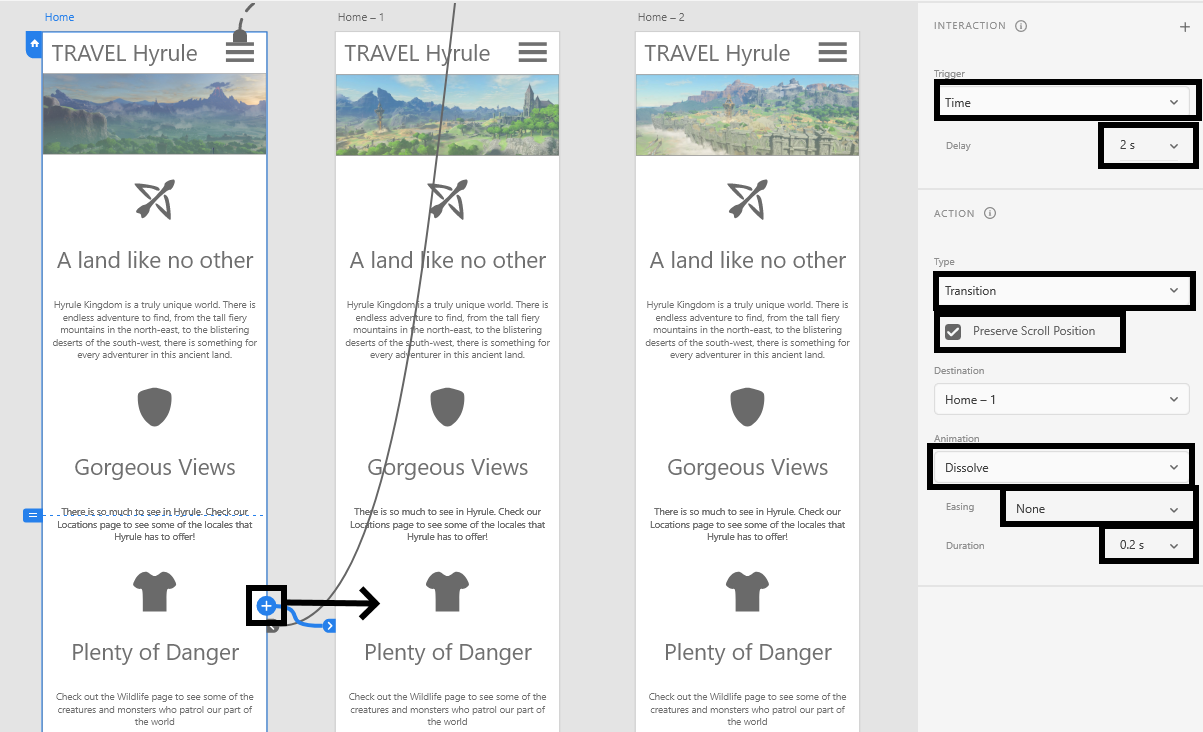
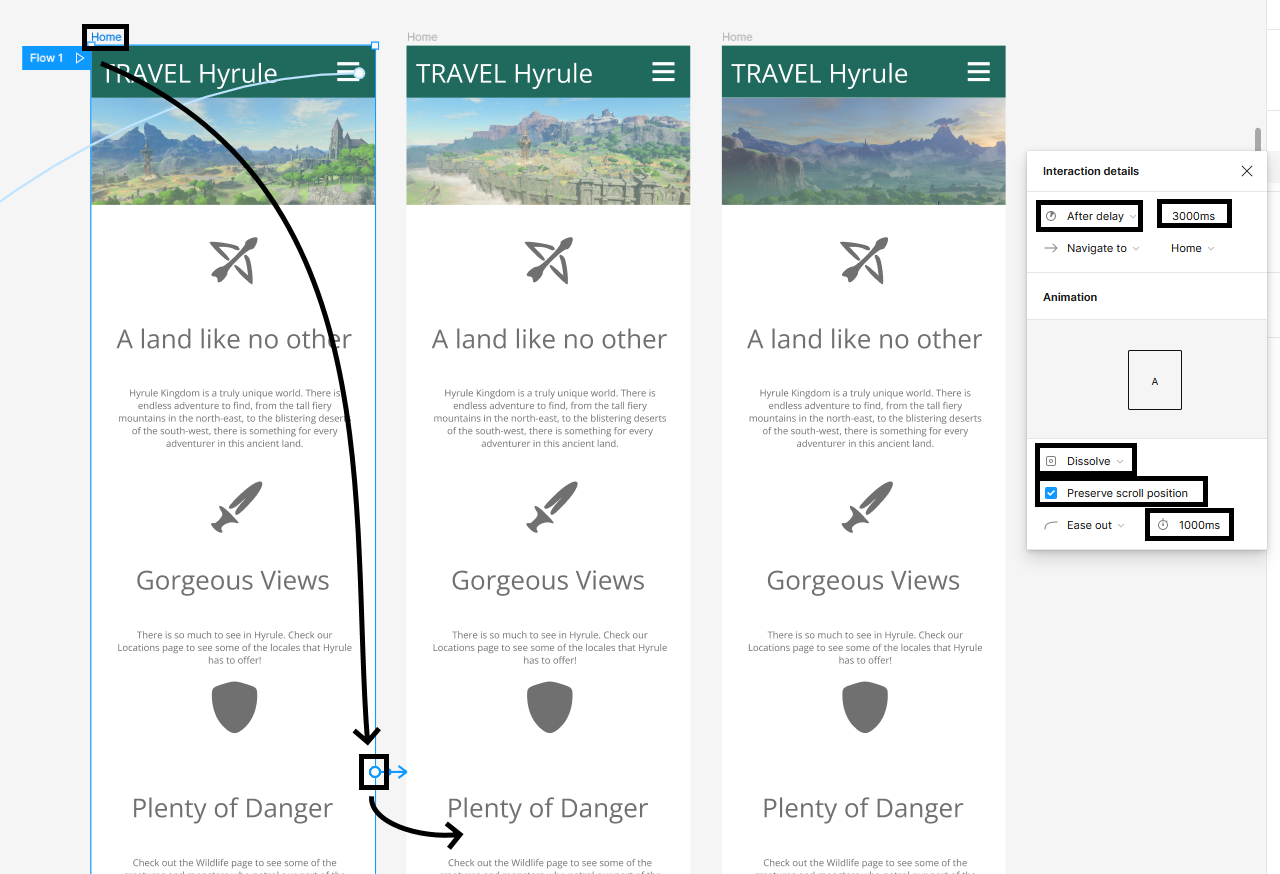
update lab 4 Figma

diff --git a/labs/ense-271/lab-4/index.html b/labs/ense-271/lab-4/index.html
@@ -112,7 +112,7 @@
 
     <main id="content" class="main-content" role="main">
         <p></p>
-        <h1 id="lab-4-hi-fi-prototypes-with-adobe-xd">Lab 4: Hi-Fi Prototypes with Adobe XD</h1>
+        <h1 id="lab-4-hi-fi-prototypes-with-figma">Lab 4: Hi-Fi Prototypes with Figma</h1>
 
 <p>ENSE 271 - People-Centred Design - Laboratory</p>
 
@@ -123,35 +123,46 @@
 <p><button class="expandall">Collapse All</button></p>
 <section id="introduction"><button class="collapsible">Introduction</button><div class="text-content"><div class="text-inner">
 
-      <p>In the previous lab we looked at using Adobe XD to make high fidelity wireframes. However, these were only static sites with no interactivity. We will now look at using the Adobe XD Prototyping workflow to add some interactivity to our website mockups, which we can demonstrate using the <code class="language-plaintext highlighter-rouge">preview</code> function.</p>
+      <p>In the previous lab we looked at using Figma to make high fidelity wireframes. However, these were only static sites with no interactivity. We will now look at using the Figma Prototyping workflow to add some interactivity to our website mockups, which we can demonstrate using the <code class="language-plaintext highlighter-rouge">Present</code> function.</p>
 
-      <p>Download the starting files from URCourses, and open up <code class="language-plaintext highlighter-rouge">travel-hyrule-starting.xd</code>, a mobile tourism site for a fictional land.</p>
+      <p>Download the starting files from URCourses, and open up <code class="language-plaintext highlighter-rouge">travel-hyrule-starting.fig</code>, a mobile tourism site for a fictional land.</p>
 
       <p>We will work together through:</p>
       <ul>
         <li>Setting a home page and previewing</li>
         <li>Connecting the hamburger menu to each of the pages</li>
-        <li>Add an automatic carousel to the first page</li>
+        <li>Connecting the Weird Stuff page to their subpages</li>
+        <li>Add an <code class="language-plaintext highlighter-rouge">automatic carousel</code> to the first page</li>
+        <li>Add some <code class="language-plaintext highlighter-rouge">light boxes</code> to the locations page</li>
         <li>Have a unique interaction on each of the strange
           <ul>
-            <li>A slow fade on the <code class="language-plaintext highlighter-rouge">shrines</code> page</li>
-            <li>A draggable gallery on the <code class="language-plaintext highlighter-rouge">divine beasts</code> page</li>
-            <li>A carousel with buttons on the <code class="language-plaintext highlighter-rouge">towers</code> page</li>
+            <li>A <code class="language-plaintext highlighter-rouge">slow auto-fade effect</code> on the shrines page</li>
+            <li>A draggable gallery on the divine beasts page, with a subtle <code class="language-plaintext highlighter-rouge">cover flow</code> effect</li>
+            <li>A <code class="language-plaintext highlighter-rouge">carousel with buttons</code> on the towers page</li>
           </ul>
         </li>
-        <li>Add some lightboxes to the <code class="language-plaintext highlighter-rouge">locations</code> page</li>
       </ul>
+
+      <p>Note, as this was adapted from XD, I am still using their terminology <code class="language-plaintext highlighter-rouge">Artboard</code> in places, but in Figma this is called a <code class="language-plaintext highlighter-rouge">Frame</code>.</p>
 
     </div></div></section>
 <section id="prototypinghomepageandpreviewing"><button class="collapsible">Prototyping, Home Page and Previewing</button><div class="text-content"><div class="text-inner">
 
-      <p>To add interactivity to our design, we need to be in prototyping mode. Switch to prototyping mode using the top menu…</p>
+      <p>To add interactivity to our design, we need to be in prototyping mode. Switch to prototyping mode using the top menu:</p>
 
       <p><img src="res/1-prototype.png" alt="Prototype mode" /></p>
 
-      <p>Set the home page by selecting the page and clicking the home icon…</p>
+      <p>A journey through our prototype is called a <code class="language-plaintext highlighter-rouge">flow</code>. We need to set a default flow starting point, so that when we start our presentation Figma knows which screen to start on. The home screen may already be set as the default flow starting point.</p>
 
-      <p><img src="res/2-home.png" alt="Home" /></p>
+      <p><img src="res/2-home.png" alt="Starting flow" /></p>
+
+      <p><img src="res/flow-working.png" alt="" /></p>
+
+      <p>You can configure your present mode to simulate an android phone using the following settings</p>
+
+      <p><img src="res/configure-present-for-android-1.png" alt="" /></p>
+
+      <p><img src="res/configure-present-for-android-2.png" alt="" /></p>
 
       <p>You can preview your page by clicking on the preview icon.</p>
 
@@ -164,51 +175,85 @@
     </div></div></section>
 <section id="wiringupthehomemenu"><button class="collapsible">Wiring up the home menu</button><div class="text-content"><div class="text-inner">
 
-      <p>Click on your <code class="language-plaintext highlighter-rouge">hamburger menu</code> icon on the main. New gizmos will appear. Click on the arrow and drag it to the menu screen to the left.</p>
+      <p>In prototyping, we can connect a visual element, called a <code class="language-plaintext highlighter-rouge">hotspot</code> to respond to a <code class="language-plaintext highlighter-rouge">trigger</code> (e.g. tapping, dragging) to cause a <code class="language-plaintext highlighter-rouge">transition</code> to another page. This process is called adding a <code class="language-plaintext highlighter-rouge">connection</code>, and requires a <code class="language-plaintext highlighter-rouge">destination</code>. In addition, we can also cause pages to temporarily <code class="language-plaintext highlighter-rouge">overlay</code> the current page.</p>
 
-      <p><img src="res/5-our-first-wire.png" alt="First Wire" /></p>
+      <p>First we will connect each of the pages to the menu via the <code class="language-plaintext highlighter-rouge">hamburger menu</code> icon.</p>
 
-      <p>You will see that it is wired correct if a curved blue line connects the screens.</p>
+      <p>Click this icon on the Home page. A new circle gizmo will appear on the right side of the icon. Hover over it and click on the <code class="language-plaintext highlighter-rouge">+</code> and drag it to the menu screen to the left.</p>
 
-      <p><img src="res/7-wired.png" alt="Wired" /></p>
+      <p><img src="res/5-our-first-wire.png" alt="Our first wire" /></p>
 
-      <p>In the inspector, set the animation type to tap, overlay and slide down</p>
+      <p>You will see that it is wired correctly if a curved blue line connects the screens.</p>
 
-      <p><img src="res/6-animation-settings.png" alt="Animation Settings" /></p>
+      <p><img src="res/7-wired.png" alt="All wired up" /></p>
 
-      <p>Once an animation is set, if you wire up another link, it will copy the same animation settings. Use this to link up the hamburger menus on the other pages…</p>
+      <p><code class="language-plaintext highlighter-rouge">Transitions</code> can also have animation. Let’s cause our menu to slide down. Access the interaction settings in the menu from here:</p>
 
-      <p><img src="res/8-wired-to-hamburger.png" alt="Wired to hamburger" /></p>
+      <p><img src="res/6-animation-settings.png" alt="" /></p>
+
+      <p>It is a good idea to preview here to be sure we are happy with our settings. We are going to want to copy this transition to each of our hamburger menus on each of our pages.</p>
+
+      <p>To copy a setting you need to click on the left gutter beside the interaction (This is a small window, maybe ten pixels):</p>
+
+      <p><img src="res/select-an-interaction.png" alt="" /></p>
+
+      <p>You will know you have the interaction selected because it is highlighted in blue:</p>
+
+      <p><img src="res/interaction-highlighted.png" alt="" /></p>
+
+      <p>Copy it with <code class="language-plaintext highlighter-rouge">ctrl+c</code>.</p>
+
+      <p>Now click on the hamburger on the next page, and <code class="language-plaintext highlighter-rouge">ctrl+v</code>. You should see the same animation appear in the interactions pane.</p>
+
+      <p><img src="res/copy-paste-interaction.png" alt="" /></p>
+
+      <p>Continue for all hamburger menus.</p>
 
       <p>You also need to wire up the hamburger menu of links back to the appropriate pages. Let’s start with the home page.</p>
 
       <p><img src="res/9-wired-back-up.png" alt="Wired back up" /></p>
 
-      <p>And then set the other pages too…</p>
+      <p>Once you have configured the interactions as you like, these remain the default for further connections from this page.</p>
+
+      <p>And then set the other pages too:</p>
 
       <p><img src="res/10-hamburger-menu-complete.png" alt="Hamburger complete" /></p>
 
-      <p>Getting pretty crazy.</p>
+      <p>The wires are getting pretty crazy. Don’t worry, it will get much, much worse.</p>
 
       <p>Run your preview again, and confirm that all of the links are working correctly.</p>
 
       <p>This is the complete workflow to link pages together. In the next sections we will work on animations to bring the pages to life.</p>
 
-      <p>While we’re linking pages, notice that the <code class="language-plaintext highlighter-rouge">Weird Stuff</code> page should link to three sub pages…</p>
+      <p>While we’re linking pages, notice that the <code class="language-plaintext highlighter-rouge">Weird Stuff</code> page should link to three sub pages. Link with the following animation settings:</p>
 
       <p><img src="res/10.1-weird-stuff.png" alt="Weird stuff lints" /></p>
 
-      <p>This time, use these animation settings:</p>
+      <p>This will create a push effect. We don’t typically see this on the web, but they may be used in a mobile app.</p>
 
-      <p><img src="res/10.3-transition-settings.png" alt="Transition Settings" /></p>
+      <p>Repeat for the other two pages.</p>
 
-      <p>We don’t typically see these kind of animations on the web, but they may be used in a mobile app.</p>
-
-      <p>Each of these pages has a back button, which we can wire back to the weird stuff page. We should also choose an animation that mirrors the one which arrives at this page:</p>
+      <p>Each of these pages has a back button, which we can wire back to the weird stuff page. However, we can simply set the interaction style to back, which will return to the previous page, and attempt to reverse the interaction as well! (Though I sometimes encountered bugs with it):</p>
 
       <p><img src="res/10.2-back.png" alt="Back" /></p>
 
-      <p>Test it out, does it go forward and backward as expected? You can try different animations for the three pages, forward and back, to see what you like.</p>
+      <p>Alternatively, you could hard code the destination, and just be sure the mirror the direction of the “push”.</p>
+
+      <p><img src="res/push-back.png" alt="" /></p>
+
+      <p>This may also be a fun time to try the different easings, e.g. <code class="language-plaintext highlighter-rouge">Bouncy</code></p>
+
+      <p><img src="res/bouncy.png" alt="" /></p>
+
+      <p>Ensure all pages are linked, and test it out, does it go forward and backward as expected? You can try different animations for the three pages, forward and back, to see what you like.</p>
+
+      <p><img src="res/10.3-sub-pages-all-wired-with-back.png" alt="sub pages wired" /></p>
+
+      <p>This is all we need to get basic interactivity. However, in the next sections we are going to look at some advanced animations for giving our prototypes some extra polish.</p>
+
+      <p>In preparation for this, we want to reorganize our board, so that each of the main pages are aligned vertically, with space to their right which we will use for progressive animation frames. You can do this by box selecting from prototype and dragging full frames around:</p>
+
+      <p><img src="res/pages-stacked.png" alt="" /></p>
 
     </div></div></section>
 <section id="automaticcarousel"><button class="collapsible">Automatic carousel </button><div class="text-content"><div class="text-inner">
@@ -221,37 +266,51 @@
 
       <p>Connect the first artboard to the second with the following settings:</p>
 
-      <p><img src="res/12-carousel-transition.png" alt="Carousel transition" /></p>
+      <p>![Carousel transition](
+<img src="res/12-carousel-transition.png" alt="" /></p>
 
-      <p>Wire up the second to the third screen, and the third screen back to the first.</p>
+      <p>Wire up the second to the third screen, and the third screen back to the first. Unfortunately you will update the settings on each page. Alternatively, you can copy and paste, as we saw earlier, and move the destination.</p>
 
       <p><img src="res/13-tangled-up.png" alt="Tangled up" /></p>
 
-      <p>Preview the page. The image should swap automatically every few seconds.</p>
+      <p>Preview the page. The image should swap automatically every few seconds. Note that if you scroll when a transition is occurring, weird things will happen. This seems to be due to a conflict in two animations playing at once. So far I don’t know a good workaround.</p>
+
+    </div></div></section>
+<section id="lightboxesforthelocationpage"><button class="collapsible">Lightboxes for the location page</button><div class="text-content"><div class="text-inner">
+
+      <p>Next let’s add some Lightboxes to the location page. Lightboxes dim the screen and show some content highlighted in a popup. We will allow the user to click on the text at various points in the page, and have a pop-up appear with more information.</p>
+
+      <p>Move the location page near the four lightboxes, and wire the links together with the following settings:</p>
+
+      <p><img src="res/22-lightboxes.png" alt="light boxes" /></p>
+
+      <p>We can also wire the close buttons back to close the overlay.</p>
+
+      <p><img src="res/lightbox-close.png" alt="" /></p>
+
+      <p>Test it out. You may click on the <code class="language-plaintext highlighter-rouge">x</code> to close the lightbox. The dimming effect is caused by a slightly transparent dark filled rectangle placed under the info box in the lightbox, although it looks like there is a native ability to do this in Figma, but I did not explore it.</p>
 
     </div></div></section>
 <section id="autofadeanimationonshrinepage"><button class="collapsible">Auto-fade Animation on Shrine page</button><div class="text-content"><div class="text-inner">
 
-      <p>In this section we’ll make a slow transition on the shrine page. Duplicate the shrine page, and center one of the two shrine images in each page. Finally, add effects back and forth with the following settings.</p>
+      <p>In this section we’ll make a slow transition on the shrine page. Duplicate the shrine page, and center one of the two shrine images in each page. Finally, add transition effects back and forth with the following settings. (no delay, slow animate)</p>
 
       <p><img src="res/14-shrine-fade.png" alt="Shrine Fade" /></p>
 
-      <p>Preview the page. This effect looks pretty neat. However, notice that page scrolling is disabled when an animation is playing. When one animation is playing, others are blocked, and in XD, scrolling counts as an animation. For this reason, these types of animations should be used sparingly, for example, on splash screen pages and single-page views without scroll.</p>
+      <p>Preview the page. This effect looks pretty neat. However, notice that page scrolling is strange. This is because the scroll animation is playing over the old fade out, which does not scroll with it. For this reason, these types of animations should be used cautiously, for example, on splash screen pages and single-page views without scroll.</p>
 
     </div></div></section>
-<section id="draggablegallerypagetheoldway"><button class="collapsible">Draggable Gallery Page - The Old Way</button><div class="text-content"><div class="text-inner">
+<section id="draggablegallerypagewithzoomingeffect"><button class="collapsible">Draggable Gallery Page with Zooming Effect</button><div class="text-content"><div class="text-inner">
 
-      <p>Since Jan 2021, This method is deprecated. However, you will see that it provides some extra functionality compared to the new way.</p>
-
-      <p>On the Divine Beasts page we will simulate a draggable scrolling gallery effect.</p>
+      <p>On the Divine Beasts page we will simulate a draggable scrolling gallery effect. In addition, the image which is currently in view will be enlarged somewhat, to make an effect similar to Coverflow.</p>
 
       <p>For this effect we will need six total keyframes, but we will make four to start.</p>
 
-      <p>Duplicate the page, and move the image slider so that one of the four images is in the middle of the frame, in order from left to right:</p>
+      <p>Duplicate the page, and move the image slider so that one of the four images is in the middle of the frame, in order from left to right. Be careful not to drag the group out of the frame when sliding them over!:</p>
 
       <p><img src="res/15-divine-beasts-first-four-keyframes.png" alt="First four keyframes" /></p>
 
-      <p>To make this effect even more interesting, we will zoom in on the selected beast in each frame. Switch to design, double click on the image to get into the group, then double click again to get the original masked image. Scale it up a bit so that the creature is more pronounced in frame. Do this for each of the four beasts in their appropriate artboard.</p>
+      <p>To make this effect even more interesting, we will zoom in on the selected beast in each frame. Double-click on the group, select the image in frame, and scale it up. If you hold <code class="language-plaintext highlighter-rouge">shift</code> and <code class="language-plaintext highlighter-rouge">alt</code> while you drag, it will stay centered and scale while maintaining the aspect ratio.</p>
 
       <p><img src="res/16-divine-beasts-zoomed.png" alt="Divine Beasts Zoomed" /></p>
 
@@ -259,7 +318,7 @@
 
       <p><img src="res/17-all-keyframes.png" alt="Divine Beasts Zoomed" /></p>
 
-      <p>Now we’ll add our animations. Remember to add one animation first, adjust the settings, and then add more. Select the image banner on the first keyframe, and connect it to the second, with the following settings:</p>
+      <p>Now we’ll add our animations. The easiest way is to add one animation first, adjust the settings, and then copy and paste more.</p>
 
       <p><img src="res/18-drag.png" alt="Drag" /></p>
 
@@ -267,22 +326,11 @@
 
       <p>Once you have the animation settings correct, connect each images to their keyframe to their right, and connect the final image back to the first artboard.</p>
 
-      <p>Test the page. Drag through your images all the way to the right, and then all the way back to the left. The limitation to this animation is that you can only drag in this specific order, but it still creates a neat animation with the subtle zooming effect.</p>
+      <p>Test the page. Drag through your images all the way to the right, and then all the way back to the left. The limitation to this animation is that you can only drag in this specific order, but it still creates a neat animation with the coverflow zooming effect.</p>
 
-    </div></div></section>
-<section id="draggablegallerythenewway"><button class="collapsible">Draggable Gallery - The new Way</button><div class="text-content"><div class="text-inner">
+      <p>The trick to making this work was using the <code class="language-plaintext highlighter-rouge">smart animate</code> feature, which tweens between differences properties in adjacent frames, including scaling, position, and more. Play with this feature to see what you can come up with!</p>
 
-      <p>Since scrolling areas is a high demand feature, it was made into a native feature.</p>
-
-      <p>Switch back to design mode, and then click on the gallery. In the right pane, click on the horizontal scroll group</p>
-
-      <p><img src="res/drag-new-1.png" alt="Drag-New-1" /></p>
-
-      <p>Next, move the blue bar to be flush with the right side of the image</p>
-
-      <p><img src="res/drag-new-2.png" alt="Drag-New-2" /></p>
-
-      <p>Now preview this screen. You should be able to scroll. Cool. We gain the ability to smoothly scroll in any direction. However, we have lost the ability to do the zooming animation. You will need to choose the method that is more appropriate for your given task.</p>
+      <p>Also note how dragging changes the behaviour of the <code class="language-plaintext highlighter-rouge">back</code> button - it now undoes the last animation rather than going to the previous page. If you do not like this functionality, you can instead hard wire the back buttons back to the Weird Stuff page with the push right effect.</p>
 
     </div></div></section>
 <section id="fiveimagecarouselwitharrowsandprogressbuttons"><button class="collapsible">Five image carousel with arrows and progress buttons</button><div class="text-content"><div class="text-inner">
@@ -303,17 +351,6 @@
 
       <p>Test it out. The arrows are easy test, the bubbles slightly less so, as you would need to test all four exists from each page! I test first page to the remaining four and back, second page to the remaining three and back, third page to the remaining two and back, etc.</p>
 
-    </div></div></section>
-<section id="lightboxesforthelocationpage"><button class="collapsible">Lightboxes for the location page</button><div class="text-content"><div class="text-inner">
-
-      <p>The last thing we are going to do is add some Lightboxes to the location page. Lightboxes dim the screen and show some content highlighted in a popup. We will allow the user to click on the text at various points in the page, and have a pop-up appear with more information.</p>
-
-      <p>Move the location page near the four lightboxes, and wire the links together with the following settings…</p>
-
-      <p><img src="res/22-lightboxes.png" alt="light boxes" /></p>
-
-      <p>Test it out. You may click anywhere on the lightbox to close it, but a close icon was included in the image in case that isn’t obvious. The dimming effect is caused by a slightly transparent dark filled rectangle placed under the info box in the lightbox.</p>
-
       <p>And that’s it. The full website is accessible, with several interesting effects. Test it out to see if anything is broken. Are all the hamburger icons leading to the menu page? You can verify by clicking on the menu and tracing all of the dashed lines.</p>
 
       <hr />
@@ -321,16 +358,16 @@
     </div></div></section>
 <section id="assignment"><button class="collapsible">Assignment</button><div class="text-content"><div class="text-inner">
 
-      <p>Due to the pandemic, many public places are closed to the public, such as museums, art galleries, aquariums and zoos. Due to this, many have attempted to do <code class="language-plaintext highlighter-rouge">virtual museums</code>. Your assignment is to choose a real-world location and create a virtual tour in Adobe XD. Your tour should include:</p>
+      <p>Your project for this lab is to create a <code class="language-plaintext highlighter-rouge">virtual museum</code>, a prototype of a simple webpage which simulates touring a real-world museum (or similar place, like Aquarium, Zoo or Hall of Fame) in Figma. Your tour should include:</p>
       <ul>
         <li>A home page</li>
-        <li>Some type of menu</li>
+        <li>Some type of menu (properly connected so that every page is accessible)</li>
         <li>Three exhibits, with a page for each
           <ul>
             <li>Each exhibit should have a name, a set of images and text description</li>
-            <li>The images should be stored in some type of interactive container
+            <li>The images should be stored in some type of interactive image container
               <ul>
-                <li>You can use ones from the prelab, or create your own</li>
+                <li>You can use ones from the pre-lab, or create your own</li>
               </ul>
             </li>
             <li>Use a different type of interaction for each page</li>
@@ -340,21 +377,23 @@
 
       <p>Please include some images from the exhibits. Many museums license their images in the creative commons, but even if not, it is okay to use them in this project as it is for educational / non-commercial purposes.</p>
 
-      <p>As we are now at the half way point of the lab, do not forget about your running assignment of maintaining a github portfolio! This would be a good time to ensure everything is up to date.</p>
+      <p>As we are now at the half way point of the lab, do not forget about your running assignment of maintaining a github portfolio! This would be a good time to ensure everything is up to date, well organized, and easy to navigate. Think about users browsing your page as a portfolio, are they likely to download and open up “.fig” files, or would they rather see screen capture images presented in easily to see markdown files?</p>
 
       <hr />
 
     </div></div></section>
 <section id="submission"><button class="collapsible">Submission</button><div class="text-content"><div class="text-inner">
 
-      <p>Please submit your <code class="language-plaintext highlighter-rouge">.xd</code> files to UR Courses by the due date.</p>
+      <p>Please submit your <code class="language-plaintext highlighter-rouge">.fig</code> files to UR Courses by the due date.</p>
 
       <hr />
 
     </div></div></section>
 <section id="references"><button class="collapsible">References</button><div class="text-content"><div class="text-inner">
 
-      <p>W. Everhart, <a href="https://www.pluralsight.com/courses/adobe-xd-cc-fundamentals">Abode XD CC Fundamentals</a>, Pluralsight, 2018</p>
+      <p>Originally based on the following XD tutorials, later migrated to Figma</p>
+
+      <p>W. Everhart, <a href="https://www.pluralsight.com/courses/adobe-xd-cc-fundamentals">Adobe XD CC Fundamentals</a>, Pluralsight, 2018</p>
 
       <p>E. Key, <a href="https://www.lynda.com/Web-tutorials/Prototyping-WordPress-Project-Adobe-XD/2809592-2.html">Prototyping a WordPress Project in Adobe XD</a>, Linda from LinkedIn, 2019</p>
     </div></div></section>
